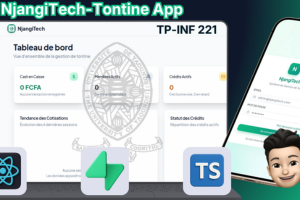
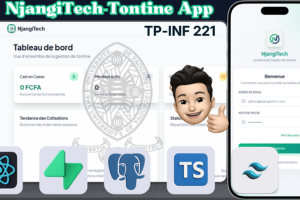
feat: switch font to Bricolage Grotesque
- Replace Plus Jakarta Sans with Bricolage Grotesque
- Update Google Fonts import with variable optical sizing
- Configure Tailwind to use new font as default sans

diff --git a/tailwind.config.js b/tailwind.config.js
@@ -8,7 +8,7 @@ export default {
   theme: {
   	extend: {
   		fontFamily: {
-  			sans: ['"Plus Jakarta Sans"', 'ui-sans-serif', 'system-ui', '-apple-system', 'BlinkMacSystemFont', 'sans-serif'],
+  			sans: ['"Bricolage Grotesque"', 'ui-sans-serif', 'system-ui', '-apple-system', 'BlinkMacSystemFont', 'sans-serif'],
   		},
   		borderRadius: {
   			lg: 'var(--radius)',

diff --git a/src/index.css b/src/index.css
@@ -1,4 +1,4 @@
-@import url('https://fonts.googleapis.com/css2?family=Plus+Jakarta+Sans:wght@300;400;500;600;700;800&display=swap');
+@import url('https://fonts.googleapis.com/css2?family=Bricolage+Grotesque:opsz,wght@12..96,300;12..96,400;12..96,500;12..96,600;12..96,700;12..96,800&display=swap');
 
 @tailwind base;
 @tailwind components;
